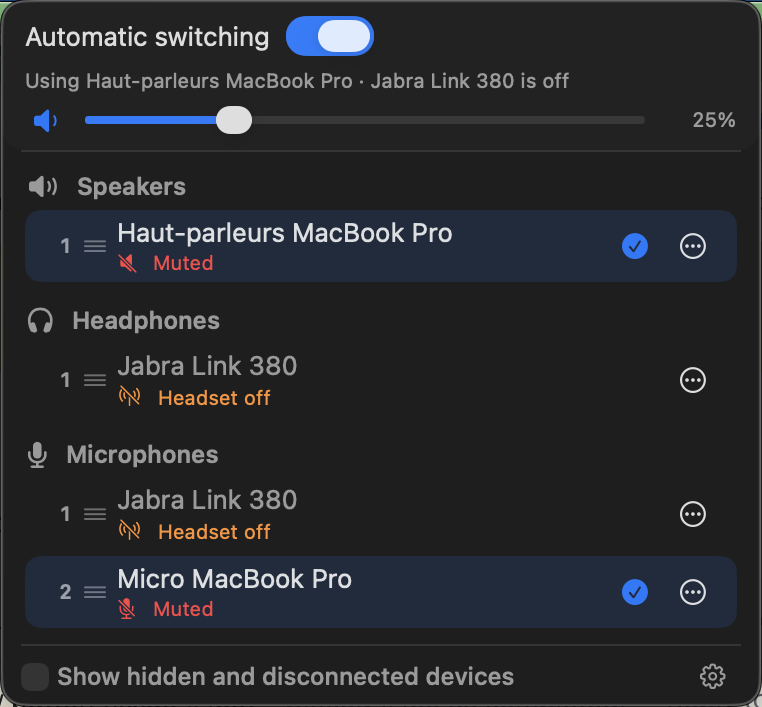
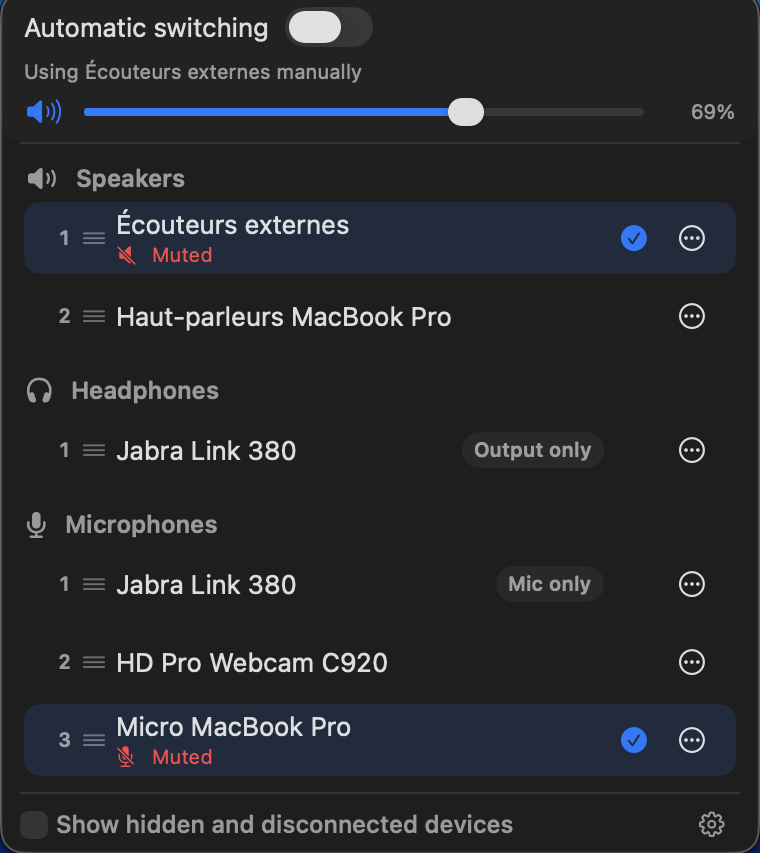
feat: release Audio Priority Bar 2.2.0
Configurable paired selection for a USB headset's input and output with
per-row overrides, one meaning for Hide Device, a menu bar item that no longer
reserves extra width, and an immediate Jabra Link status badge. A minor release
rather than a patch, because it adds behaviour and a setting. Upgrading from
2.1.0 needs no migration, and the previous microphone pairing preference is
carried over.

Screenshots retaken against this build. They show the new Output only and Mic
only overrides on the Jabra Link 380 rows, which requires the headset powered
on and manual switching, since automatic switching would select the headset
itself and leave nothing for the overrides to change.

diff --git a/.github/release-notes/v2.2.0.md b/.github/release-notes/v2.2.0.md
@@ -1,0 +1,35 @@
+Audio Priority Bar 2.2.0 makes paired USB headset selection explicit and configurable, simplifies device hiding, tightens menu bar icon spacing, and refreshes Jabra status immediately. Upgrading from 2.1.0 preserves existing priorities, categories, visibility, and the previous microphone pairing preference.
+
+## Headset selection
+
+- **Select headset input and output together** is enabled by default. Selecting either half of a physical USB headset in the panel selects the other half too.
+- A paired row offers **Mic only** or **Output only** while paired selection is enabled, and **Use both** while it is disabled. The override appears only when it would change the current selection.
+- The setting replaces the previous microphone pairing preference and keeps its existing value during the upgrade.
+
+## Device management
+
+- **Hide Device** now has one meaning. It hides a microphone from Microphones or an output from both Speakers and Headphones, regardless of its current category.
+- **Show hidden and disconnected devices** reveals every hidden or remembered device for management.
+- Moving an output between Speakers and Headphones preserves whether it is hidden, and the active microphone remains visible even when hidden.
+- **Never Auto-Select** remains independent from visibility, so a device can stay visible without being chosen automatically.
+
+## Menu bar and status
+
+- The menu bar item no longer reserves excess horizontal space. Its speaker icon now matches the narrower two-wave symbol used by macOS.
+- A Jabra Link status change redraws its row immediately, so **Headset off** no longer waits for hover or another panel update.
+
+## Install
+
+```bash
+brew install --cask camguillory/tap/audio-priority-bar
+```
+
+Alternatively, download `AudioPriorityBar.zip` and `AudioPriorityBar.zip.sha256` below into the same folder, verify the archive, and move the app to `/Applications`:
+
+```bash
+shasum -a 256 -c AudioPriorityBar.zip.sha256
+```
+
+The release is universal for Apple silicon and Intel. It is ad-hoc signed, not signed with an Apple Developer ID or notarized. If macOS blocks the first launch, open **System Settings > Privacy & Security** and click **Open Anyway**.
+
+Jabra Link monitoring may request Input Monitoring permission. Link 380 is hardware-verified. Link 390 is expected to work through the same capability check but remains unverified on hardware, and monitoring fails open when the link state cannot be read.

diff --git a/README.md b/README.md
@@ -25,7 +25,7 @@ highest-priority connected headphones, speakers, and microphone.
 - Volume control by slider or scroll wheel, with mute and availability status
 - Device visibility controls, Never Auto-Select, and remembered devices
 - Output categories taken from what each device reports, in any system language
-- Optional microphone switching paired with a matching USB output
+- Configurable paired selection for a physical USB headset's input and output
 - Settings, right-click quick actions, VoiceOver support, and Open at Login
 - Jabra Link headset power-off detection, asked of the dongle rather than guessed
 
